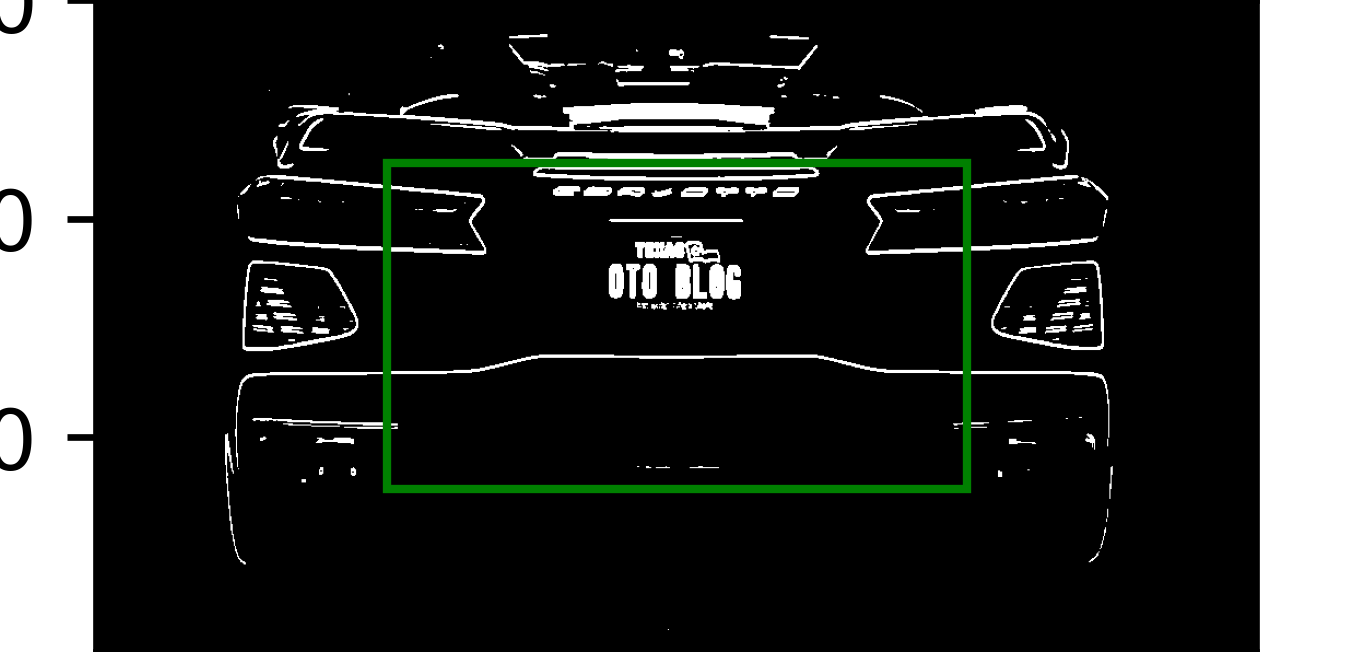
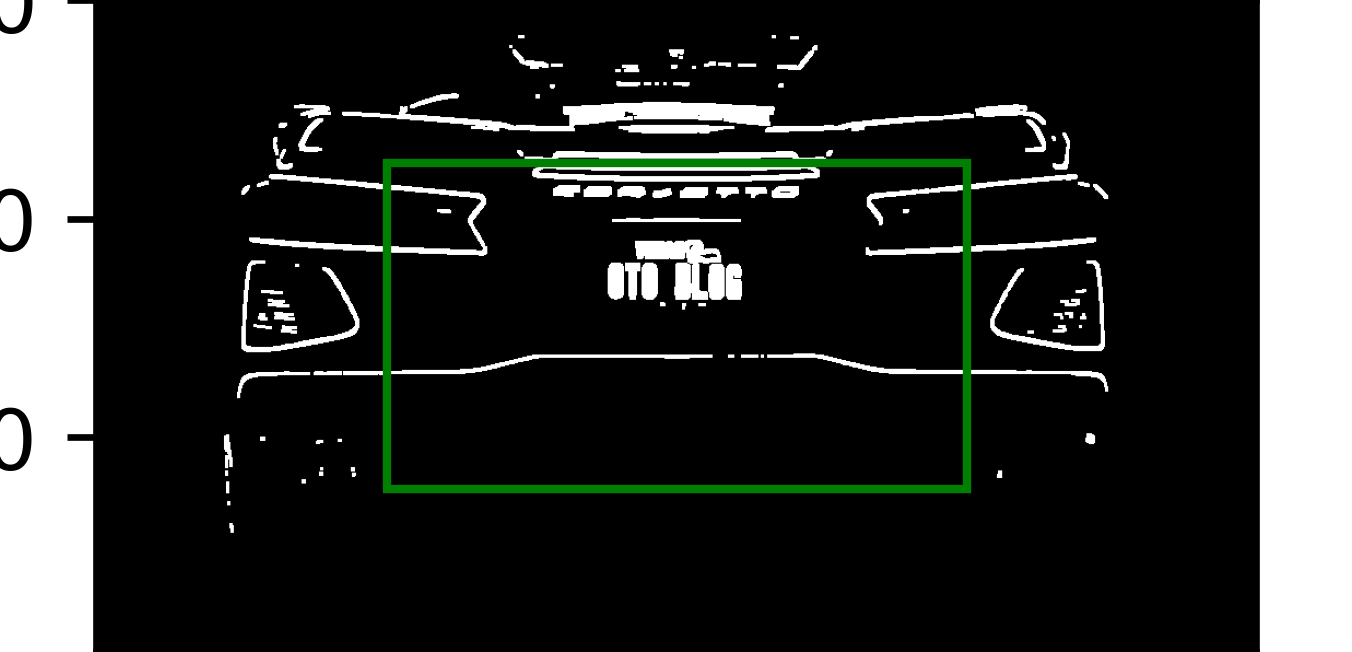
dilation and erosion implemented

diff --git a/CS373LicensePlateDetection.py b/CS373LicensePlateDetection.py
@@ -83,7 +83,7 @@ def stretch(anArray, image_height, image_width):
 
 # computer standard deviation (5 x 5)
 def getStandardDeviation(stretched_array, image_width, image_height):
-    sd_array = createInitializedGreyscalePixelArray(image_width, image_height, 0.0)
+    sd_array = createInitializedGreyscalePixelArray(image_width, image_height, 0)
     for r in range(2, image_height - 2):
         for c in range(2, image_width - 2):
             avg = stretched_array[r - 2][c - 2] + stretched_array[r - 2][c - 1] + stretched_array[r - 2][c] + \
@@ -107,7 +107,7 @@ def getStandardDeviation(stretched_array, image_width, image_height):
             temp += pow(stretched_array[r + 1][c + 1] - avg, 2) + pow(stretched_array[r + 2][c - 1] - avg, 2)
             temp += pow(stretched_array[r + 2][c] - avg, 2) + pow(stretched_array[r + 2][c + 1] - avg, 2)
             temp = temp / 25
-            sd_array[r][c] = math.sqrt(temp)
+            sd_array[r][c] = int(math.sqrt(temp))
     return sd_array
 
 # compute image by threshold to get high contrast area
@@ -129,7 +129,7 @@ def computeHistogram(pixel_array, image_width, image_height):
             histogram[pixel_array[r][c]-1] += 1
     return histogram
 
-# EXTENSION: calculate threshold from input image
+# EXTENSION: calculate adaptive threshold from input image
 def getThreshold(anArray, image_height, image_width):
     Hq = computeHistogram(anArray, image_width, image_height)
     qHq = [0.0 for x in range(len(Hq))]
@@ -149,6 +149,33 @@ def getThreshold(anArray, image_height, image_width):
         threshold = int(math.ceil((objects/NumObjects + background/NumBackground)/2))
     return threshold
 
+# 3x3 dilation
+def computeDilation8Nbh3x3FlatSE(pixel_array, image_width, image_height):
+    result = createInitializedGreyscalePixelArray(image_width, image_height)
+    padding = createInitializedGreyscalePixelArray(image_width + 2, image_height + 2)
+    for r in range(image_height):
+        for c in range(image_width):
+            padding[r + 1][c + 1] = pixel_array[r][c]
+    for r in range(image_height):
+        for c in range(image_width):
+            result[r][c] = 1
+            if padding[r][c] == 0 and padding[r + 1][c] == 0 and padding[r + 2][c] == 0:
+                if padding[r][c + 1] == 0 and padding[r + 1][c + 1] == 0 and padding[r + 2][c + 1] == 0:
+                    if padding[r][c + 2] == 0 and padding[r + 1][c + 2] == 0 and padding[r + 2][c + 2] == 0:
+                        result[r][c] = 0
+    return result
+
+# 3x3 erosion
+def computeErosion8Nbh3x3FlatSE(pixel_array, image_width, image_height):
+    result = createInitializedGreyscalePixelArray(image_width, image_height)
+    for r in range(1, image_height-1):
+        for c in range(1, image_width-1):
+            if pixel_array[r][c] != 0 and pixel_array[r-1][c] != 0 and pixel_array[r+1][c] != 0:
+                if pixel_array[r][c-1] != 0 and pixel_array[r-1][c-1] != 0 and pixel_array[r+1][c-1] != 0:
+                    if pixel_array[r][c+1] != 0 and pixel_array[r-1][c+1] != 0 and pixel_array[r+1][c+1] != 0:
+                        result[r][c] = 1
+    return result
+
 
 # This is our code skeleton that performs the license plate detection.
 # Feel free to try it on your own images of cars, but keep in mind that with our algorithm developed in this lecture,
@@ -159,7 +186,7 @@ def main():
     SHOW_DEBUG_FIGURES = True
 
     # this is the default input image filename
-    input_filename = "numberplate6.png"
+    input_filename = "numberplate5.png"
 
     if command_line_arguments != []:
         input_filename = command_line_arguments[0]
@@ -179,7 +206,7 @@ def main():
     (image_width, image_height, px_array_r, px_array_g, px_array_b) = readRGBImageToSeparatePixelArrays(input_filename)
 
     # setup the plots for intermediate results in a figure
-    fig1, axs1 = pyplot.subplots(3, 2)
+    fig1, axs1 = pyplot.subplots(2, 2)
     axs1[0, 0].set_title('Input red channel of image')
     axs1[0, 0].imshow(px_array_r, cmap='gray')
     axs1[0, 1].set_title('Input green channel of image')
@@ -203,16 +230,27 @@ def main():
     print("stretched again")
 
     # calculate threshold
-    threshold = getThreshold(greyscale_pixel_array, image_height, image_width)
+    threshold = getThreshold(secondStretch, image_height, image_width)
     print("calculated threshold = ", threshold)
 
     threshold_array = getThresholdArray(secondStretch, image_width, image_height, threshold)
     print("threshold_array done")
 
+    dilated_array = computeDilation8Nbh3x3FlatSE(threshold_array, image_width, image_height)
+    dilated_array = computeDilation8Nbh3x3FlatSE(dilated_array, image_width, image_height)
+    dilated_array = computeDilation8Nbh3x3FlatSE(dilated_array, image_width, image_height)
+    dilated_array = computeDilation8Nbh3x3FlatSE(dilated_array, image_width, image_height)
+    print("dilation x 4")
+
+    eroded_array = computeErosion8Nbh3x3FlatSE(dilated_array, image_width, image_height)
+    eroded_array = computeErosion8Nbh3x3FlatSE(eroded_array, image_width, image_height)
+    eroded_array = computeErosion8Nbh3x3FlatSE(eroded_array, image_width, image_height)
+    print("erosion x 3")
+
     #  STUDENT IMPLEMENTATION END
 
-    oneFivty = getThresholdArray(secondStretch, image_width, image_height, 150)
-    px_array = threshold_array
+    # oneFivty = getThresholdArray(secondStretch, image_width, image_height, 150)
+    px_array = eroded_array
 
     # compute a dummy bounding box centered in the middle of the input image, and with as size of half of width and height
     center_x = image_width / 2.0
@@ -224,15 +262,15 @@ def main():
 
     # Draw a bounding box as a rectangle into the input image
     # Final image of detection
-    axs1[1, 1].set_title('adaptive threshold')
+    axs1[1, 1].set_title('Final image of detection')
     axs1[1, 1].imshow(px_array, cmap='gray')
     rect = Rectangle((bbox_min_x, bbox_min_y), bbox_max_x - bbox_min_x, bbox_max_y - bbox_min_y, linewidth=1,
                      edgecolor='g', facecolor='none')
     axs1[1, 1].add_patch(rect)
 
-    # Draw threshold = 150
-    axs1[2, 1].set_title('150 threshold')
-    axs1[2, 1].imshow(oneFivty, cmap='gray')
+    # # Draw threshold = 150
+    # axs1[2, 1].set_title('150 threshold')
+    # axs1[2, 1].imshow(oneFivty, cmap='gray')
 
     # write the output image into output_filename, using the matplotlib savefig method
     extent = axs1[1, 1].get_window_extent().transformed(fig1.dpi_scale_trans.inverted())
